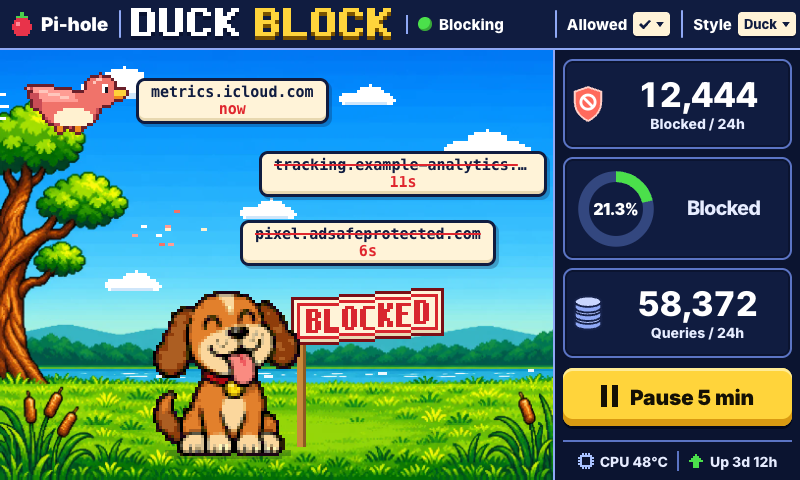
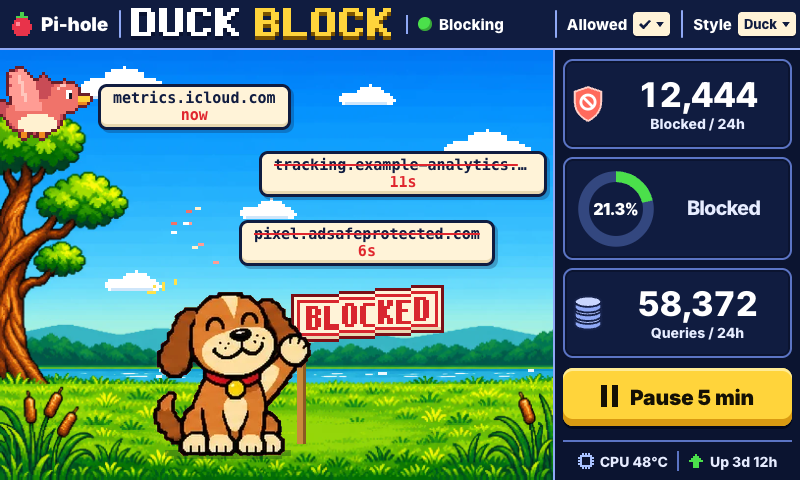
Duck Block: draw the dog at full screen resolution on its own layer

diff --git a/app/themes/duckblock.js b/app/themes/duckblock.js
@@ -27,10 +27,11 @@
   // Image plate (themes/duckblock/plate.webp, 1200x880) shown under the canvas at the scene's height, left-aligned:
   // logical = plate px * PH / 880. WATER is the painted strip of water (for the glints); the tree mask keeps clouds behind the tree.
   const PLATE = { w: 1200, h: 880 }, WATER = { y0: 107, y1: 110 }, TREE_MASK_W = 46;
-  // Dog sprite atlas: name -> [x, y, w, h, footX] in dog.webp (footX = centre of the feet, from the sprite's left edge).
-  const DOGS = { sit: [1, 1, 50, 55, 25], blink: [70, 1, 49, 55, 24], happy: [139, 1, 49, 55, 25], wave: [208, 1, 53, 55, 25], look: [277, 1, 49, 55, 25], cheer: [346, 1, 53, 60, 26],
-    f0: [1, 63, 57, 38, 24], f1: [70, 63, 48, 53, 16], f2: [139, 63, 55, 54, 30], f3: [208, 63, 44, 54, 22], f4: [277, 63, 54, 53, 37], f5: [346, 63, 55, 41, 20],
-    stand: [1, 125, 54, 49, 23], jump: [70, 125, 50, 53, 26], bow: [139, 125, 61, 46, 31], howl: [208, 125, 46, 55, 24], sleep: [277, 125, 67, 31, 36], yawn: [346, 125, 67, 33, 36] };
+  // Dog sprite atlas: name -> [x, y, w, h, footX] in dog.webp, in SCREEN pixels (the dog has its own full-resolution canvas
+  // over the scene so it stays sharp; positions passed to g()/m() are still logical). footX = centre of the feet.
+  const DOGS = { sit: [1, 1, 150, 164, 75], blink: [203, 1, 148, 164, 74], happy: [405, 1, 148, 164, 74], wave: [607, 1, 158, 164, 75], look: [809, 1, 146, 164, 75], cheer: [1011, 1, 158, 181, 78],
+    f0: [1, 184, 171, 115, 71], f1: [203, 184, 143, 158, 50], f2: [405, 184, 164, 161, 92], f3: [607, 184, 131, 161, 64], f4: [809, 184, 162, 160, 112], f5: [1011, 184, 164, 122, 62],
+    stand: [1, 367, 163, 148, 70], jump: [203, 367, 150, 158, 77], bow: [405, 367, 182, 138, 91], howl: [607, 367, 138, 166, 72], sleep: [809, 367, 200, 93, 108], yawn: [1011, 367, 200, 98, 107] };
   const ACTS = ["flip", "wave", "cheer", "flip", "jump", "wave"], IDLES = ["howl", "bow", "stand"];   // on a block / when it's calm
   const ACT_T = { flip: 1.05, wave: 1.5, cheer: 1.4, jump: 1, howl: 1.6, bow: 1.6, stand: 2 };
   const TREE = { x: 5, top: 40 };        // trunk base x (left edge tree) and where the trunk meets the canopy
@@ -371,7 +372,7 @@
           <button class="dk-tb" data-act="allowed" data-k="allowed" type="button"><span>Allowed<span class="n"></span></span><i class="dk-chip"><svg viewBox="0 0 12 10" aria-hidden="true"><path d="M1 5l3.500 3.500L11 1.500" fill="none" stroke="currentColor" stroke-width="2.500"/></svg><u></u></i></button>
           <button class="dk-tb" data-act="style" type="button"><span>Style</span><i class="dk-chip">Duck<u></u></i></button>
         </div>
-        <div class="dk-scene"><img class="dk-plate" src="themes/duckblock/plate.webp" alt="" draggable="false"><canvas class="dk-cv" width="${PW}" height="${PH}"></canvas>
+        <div class="dk-scene"><img class="dk-plate" src="themes/duckblock/plate.webp" alt="" draggable="false"><canvas class="dk-cv" width="${PW}" height="${PH}"></canvas><canvas class="dk-dog" width="${PW * SC}" height="${PH * SC}"></canvas>
           <div class="dk-calls" data-k="calls"></div>
           <div class="dk-nap" data-k="nap"><b>PAUSED</b><span data-k="cd"></span></div>
         </div>
@@ -398,7 +399,7 @@
         sky: [{ x: 14, y: 6, v: 1.6, k: 0 }, { x: 96, y: 12, v: 2.3, k: 1 }, { x: 138, y: 27, v: 1.2, k: 0 }, { x: 60, y: 50, v: 2.8, k: 1 }, { x: 20, y: 74, v: 2, k: 1 }],
         rate: K.rateTracker(), news: K.newsTracker(), ducks: [], parts: [], queue: [], lanes: LANES.map(() => null), call: [...calls.children],
         acc: 0.6, gap: 0, clock: 0, cheer: 0, quiet: 0, pick: 0, seeded: false, hw: PW * SC, oy: 0,
-        dogImg: new Image(), dogOk: false, act: null, actN: 0, idleN: 0, idleAt: 8,
+        dogImg: new Image(), dogOk: false, dctx: el.querySelector(".dk-dog").getContext("2d"), act: null, actN: 0, idleN: 0, idleAt: 8,
       };
       S.dogImg.onload = () => { if (this.s === S) S.dogOk = true; }; S.dogImg.src = "themes/duckblock/dog.webp";
       const pim = el.querySelector(".dk-plate"), noPlate = () => { if (this.s !== S) return; S.plateOk = false; S.back = paintBack(); S.front = paintFront(); pim.hidden = true; };
@@ -461,8 +462,8 @@
       if (!S.act || S.act.idle) S.act = { k: ACTS[S.actN++ % ACTS.length], t: 0 };
     },
     // ---- sprite dog: g = feet on the ground (bottom-aligned on footX), m = centred on a point (mid-air)
-    g(n, cx, by) { const S = this.s, d = DOGS[n]; S.ctx.drawImage(S.dogImg, d[0], d[1], d[2], d[3], Math.round(cx - d[4]), Math.round(by - d[3]), d[2], d[3]); },
-    m(n, cx, cy) { const S = this.s, d = DOGS[n]; S.ctx.drawImage(S.dogImg, d[0], d[1], d[2], d[3], Math.round(cx - d[2] / 2), Math.round(cy - d[3] / 2), d[2], d[3]); },
+    g(n, cx, by) { const S = this.s, d = DOGS[n]; S.dctx.drawImage(S.dogImg, d[0], d[1], d[2], d[3], Math.round(cx * SC - d[4]), Math.round(by * SC - d[3]), d[2], d[3]); },
+    m(n, cx, cy) { const S = this.s, d = DOGS[n]; S.dctx.drawImage(S.dogImg, d[0], d[1], d[2], d[3], Math.round(cx * SC - d[2] / 2), Math.round(cy * SC - d[3] / 2), d[2], d[3]); },
     dog(dt) {
       const S = this.s, ctx = S.ctx, c = S.clock, dx = DOG.x, dy = DOG.y, beat = Math.floor(c * 7) % 2;
       let a = S.act;
@@ -568,6 +569,7 @@
 
       // the dog
       const dx = DOG.x, dy = DOG.y;
+      if (S.dogOk) S.dctx.clearRect(0, 0, PW * SC, PH * SC);
       if (!on) {
         ctx.fillStyle = "#8A5A22"; ctx.fillRect(dx + 30, dy - 4, 24, 2); ctx.fillStyle = "#C98A3C"; ctx.fillRect(dx + 30, dy - 5, 24, 1);
         ctx.fillStyle = GR[0]; for (let i = 0; i < 26; i++) if (i % 2) ctx.fillRect(dx + 51 + i * 2, dy + 3, 2, 1);   // the sign lies in the grass

diff --git a/app/themes/duckblock.css b/app/themes/duckblock.css
@@ -32,6 +32,7 @@
 /* ---- scene */
 .dk-scene { position: relative; overflow: hidden; background: #52C24A; border-right: 2px solid #8FA8F5; }
 .dk-plate { position: absolute; left: 0; bottom: 0; height: 432px; width: auto; max-width: none; display: block; }
+.dk-dog { position: absolute; left: 0; bottom: 0; display: block; }
 .dk-cv { position: absolute; left: 0; bottom: 0; display: block; image-rendering: pixelated; image-rendering: crisp-edges; }
 .dk-calls { position: absolute; inset: 0; pointer-events: none; }
 .dk-call { position: absolute; left: 0; top: 0; height: 46px; min-width: 96px; padding: 0 12px; display: flex; flex-direction: column; align-items: center; justify-content: center;
